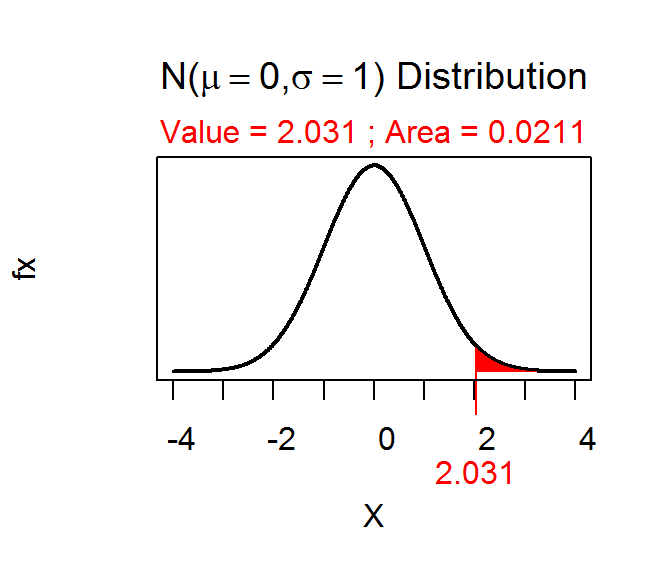
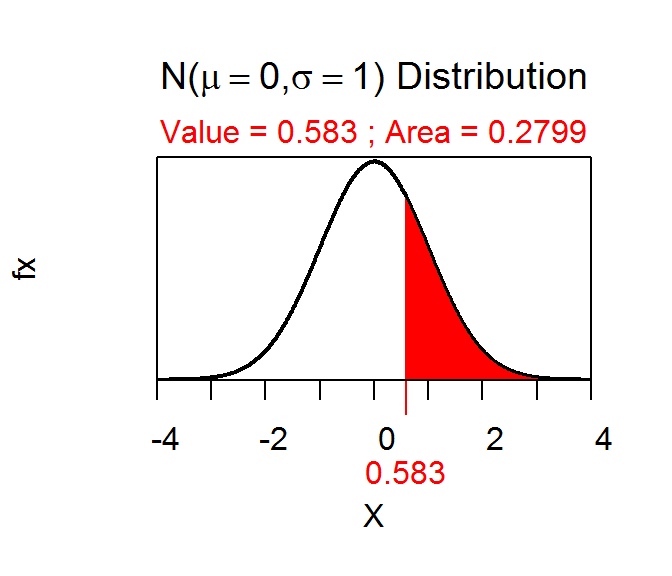
Added 1z CE key

diff --git a/resources/ce-keys/1_Sample_Z_files/navigation-1.1/FileSaver.min.js b/resources/ce-keys/1_Sample_Z_files/navigation-1.1/FileSaver.min.js
@@ -1,0 +1,2 @@
+/*! @source http://purl.eligrey.com/github/FileSaver.js/blob/master/FileSaver.js */
+var saveAs=saveAs||function(e){"use strict";if("undefined"==typeof navigator||!/MSIE [1-9]\./.test(navigator.userAgent)){var t=e.document,n=function(){return e.URL||e.webkitURL||e},o=t.createElementNS("http://www.w3.org/1999/xhtml","a"),r="download"in o,i=function(e){var t=new MouseEvent("click");e.dispatchEvent(t)},a=/Version\/[\d\.]+.*Safari/.test(navigator.userAgent),c=e.webkitRequestFileSystem,f=e.requestFileSystem||c||e.mozRequestFileSystem,u=function(t){(e.setImmediate||e.setTimeout)(function(){throw t},0)},d="application/octet-stream",s=0,l=4e4,v=function(e){var t=function(){"string"==typeof e?n().revokeObjectURL(e):e.remove()};setTimeout(t,l)},p=function(e,t,n){t=[].concat(t);for(var o=t.length;o--;){var r=e["on"+t[o]];if("function"==typeof r)try{r.call(e,n||e)}catch(i){u(i)}}},w=function(e){return/^\s*(?:text\/\S*|application\/xml|\S*\/\S*\+xml)\s*;.*charset\s*=\s*utf-8/i.test(e.type)?new Blob(["\ufeff",e],{type:e.type}):e},y=function(t,u,l){l||(t=w(t));var y,m,S,h=this,R=t.type,O=!1,g=function(){p(h,"writestart progress write writeend".split(" "))},b=function(){if(m&&a&&"undefined"!=typeof FileReader){var o=new FileReader;return o.onloadend=function(){var e=o.result;m.location.href="data:attachment/file"+e.slice(e.search(/[,;]/)),h.readyState=h.DONE,g()},o.readAsDataURL(t),void(h.readyState=h.INIT)}if((O||!y)&&(y=n().createObjectURL(t)),m)m.location.href=y;else{var r=e.open(y,"_blank");void 0===r&&a&&(e.location.href=y)}h.readyState=h.DONE,g(),v(y)},E=function(e){return function(){return h.readyState!==h.DONE?e.apply(this,arguments):void 0}},N={create:!0,exclusive:!1};return h.readyState=h.INIT,u||(u="download"),r?(y=n().createObjectURL(t),void setTimeout(function(){o.href=y,o.download=u,i(o),g(),v(y),h.readyState=h.DONE})):(e.chrome&&R&&R!==d&&(S=t.slice||t.webkitSlice,t=S.call(t,0,t.size,d),O=!0),c&&"download"!==u&&(u+=".download"),(R===d||c)&&(m=e),f?(s+=t.size,void f(e.TEMPORARY,s,E(function(e){e.root.getDirectory("saved",N,E(function(e){var n=function(){e.getFile(u,N,E(function(e){e.createWriter(E(function(n){n.onwriteend=function(t){m.location.href=e.toURL(),h.readyState=h.DONE,p(h,"writeend",t),v(e)},n.onerror=function(){var e=n.error;e.code!==e.ABORT_ERR&&b()},"writestart progress write abort".split(" ").forEach(function(e){n["on"+e]=h["on"+e]}),n.write(t),h.abort=function(){n.abort(),h.readyState=h.DONE},h.readyState=h.WRITING}),b)}),b)};e.getFile(u,{create:!1},E(function(e){e.remove(),n()}),E(function(e){e.code===e.NOT_FOUND_ERR?n():b()}))}),b)}),b)):void b())},m=y.prototype,S=function(e,t,n){return new y(e,t,n)};return"undefined"!=typeof navigator&&navigator.msSaveOrOpenBlob?function(e,t,n){return n||(e=w(e)),navigator.msSaveOrOpenBlob(e,t||"download")}:(m.abort=function(){var e=this;e.readyState=e.DONE,p(e,"abort")},m.readyState=m.INIT=0,m.WRITING=1,m.DONE=2,m.error=m.onwritestart=m.onprogress=m.onwrite=m.onabort=m.onerror=m.onwriteend=null,S)}}("undefined"!=typeof self&&self||"undefined"!=typeof window&&window||this.content);"undefined"!=typeof module&&module.exports?module.exports.saveAs=saveAs:"undefined"!=typeof define&&null!==define&&null!==define.amd&&define([],function(){return saveAs});

diff --git a/resources/ce-keys/1_Sample_Z_files/navigation-1.1/tabsets.js b/resources/ce-keys/1_Sample_Z_files/navigation-1.1/tabsets.js
@@ -1,0 +1,86 @@
+
+
+window.buildTabsets = function(tocID) {
+
+  // build a tabset from a section div with the .tabset class
+  function buildTabset(tabset) {
+
+    // check for fade and pills options
+    var fade = tabset.hasClass("tabset-fade");
+    var pills = tabset.hasClass("tabset-pills");
+    var navClass = pills ? "nav-pills" : "nav-tabs";
+
+    // determine the heading level of the tabset and tabs
+    var match = tabset.attr('class').match(/level(\d) /);
+    if (match === null)
+      return;
+    var tabsetLevel = Number(match[1]);
+    var tabLevel = tabsetLevel + 1;
+
+    // find all subheadings immediately below
+    var tabs = tabset.find("div.section.level" + tabLevel);
+    if (!tabs.length)
+      return;
+
+    // create tablist and tab-content elements
+    var tabList = $('<ul class="nav ' + navClass + '" role="tablist"></ul>');
+    $(tabs[0]).before(tabList);
+    var tabContent = $('<div class="tab-content"></div>');
+    $(tabs[0]).before(tabContent);
+
+    // build the tabset
+    tabs.each(function(i) {
+
+      // get the tab div
+      var tab = $(tabs[i]);
+
+      // get the id then sanitize it for use with bootstrap tabs
+      var id = tab.attr('id');
+
+      // remove any table of contents entries associated with
+      // this ID (since we'll be removing the heading element)
+      $("div#" + tocID + " li a[href='#" + id + "']").parent().remove();
+
+      // sanitize the id for use with bootstrap tabs
+      id = id.replace(/[.\/?&!#<>]/g, '').replace(/\s/g, '_');
+      tab.attr('id', id);
+
+      // get the heading element within it, grab it's text, then remove it
+      var heading = tab.find('h' + tabLevel + ':first');
+      var headingText = heading.html();
+      heading.remove();
+
+      // build and append the tab list item
+      var a = $('<a role="tab" data-toggle="tab">' + headingText + '</a>');
+      a.attr('href', '#' + id);
+      a.attr('aria-controls', id);
+      var li = $('<li role="presentation"></li>');
+      li.append(a);
+      if (i === 0)
+        li.attr('class', 'active');
+      tabList.append(li);
+
+      // set it's attributes
+      tab.attr('role', 'tabpanel');
+      tab.addClass('tab-pane');
+      tab.addClass('tabbed-pane');
+      if (fade)
+        tab.addClass('fade');
+      if (i === 0) {
+        tab.addClass('active');
+        if (fade)
+          tab.addClass('in');
+      }
+
+      // move it into the tab content div
+      tab.detach().appendTo(tabContent);
+    });
+  }
+
+  // convert section divs with the .tabset class to tabsets
+  var tabsets = $("div.section.tabset");
+  tabsets.each(function(i) {
+    buildTabset($(tabsets[i]));
+  });
+};
+

diff --git a/resources/ce-keys/1_Sample_Z.html b/resources/ce-keys/1_Sample_Z.html
@@ -12,45 +12,45 @@ css: "/css/modules.css"
 <h2>Cancer Tumors</h2>
 <ol>
 <li>
-α=0.10.
+α=0.05.
 </li>
 <li>
-H<sub>A</sub>: μ&gt;27 and H<sub>0</sub>: μ=27, where μ is the mean time of recurrence for ALL bladder cancer patients that received the placebo.
+H<sub>A</sub>: μ&gt;5 and H<sub>0</sub>: μ=5, where μ is the mean weight gain for all women that followed the diet.
 </li>
 <li>
-1-sample Z-test because (i) one population (bladder cancer patients that received the placebo) was sampled, (ii) a quantitative variable (time of recurrence) was recorded, and (iii) σ is assumed to be known (=15).
+1-sample Z-test because (i) one population (women that followed this diet) was sampled, (ii) a quantitative variable (weight gain) was recorded, and (iii) σ is assumed to be known (=5).
 </li>
 <li>
-Loosely an “experiment” as the subjects were given a placebo treatment. There is no obvious randomization apparent in this study.
+An observational study as the women chose to be on the diet. There is clear randomization in this study.
 </li>
 <li>
-The assumptions are met because (i) σ is known (=15) and (ii) n=42&gt;30.
+The assumptions are met because (i) σ is known (=5) and (ii) n=35&gt;30.
 </li>
 <li>
-x̄=31.7 months.
+x̄=6.7 months.
 </li>
 <li>
-t=2.0306.
+t=0.5833.
 </li>
 <li>
-p-value=0.0211.
+p-value=0.2799.
 </li>
 <li>
-Reject H<sub>0</sub> because the p-value&lt;α.
+Do not reject H<sub>0</sub> because the p-value&gt;α.
 </li>
 <li>
-It appears that the time of recurrence for the tumor for ALL patients that received the placebo is greater than the hypothesized 27 months.
+There is not enough evidence to conclude that the mean weight gain for ALL women on this diet is greater than 5 pounds.
 </li>
 <li>
-I am 90% confident that the time of recurrence for the tumor for ALL patients that received the placebo is greater than 28.73 months.
+Not required
 </li>
 </ol>
 <p>R Appendix.</p>
-<pre class="r"><code>xbar &lt;- 31.7; sigma &lt;- 15; n &lt;- 42
+<pre class="r"><code>xbar &lt;- 6.7; sigma &lt;- 7.1; n &lt;- 35
 se &lt;- sigma/sqrt(n)
-t &lt;- (xbar-27)/se
+t &lt;- (xbar-6)/se
 pv &lt;- distrib(t,lower.tail=FALSE)
-lcb &lt;- xbar+distrib(0.9,lower.tail=FALSE,type=&quot;q&quot;)*se</code></pre>
+lcb &lt;- xbar+distrib(0.95,lower.tail=FALSE,type=&quot;q&quot;)*se</code></pre>
 <hr />
 </div>
 <div id="raptors-at-hawks-ridge" class="section level2">
@@ -115,6 +115,7 @@ I am 99% confident that the mean number of raptors seen per year in ALL years is
 $(document).ready(function () {
   $('tr.header').parent('thead').parent('table').addClass('table table-condensed');
 });
+
 
 </script>
 

diff --git a/resources/ce-keys/1_Sample_Z_files/navigation-1.1/codefolding.js b/resources/ce-keys/1_Sample_Z_files/navigation-1.1/codefolding.js
@@ -1,0 +1,59 @@
+
+window.initializeCodeFolding = function(show) {
+
+  // handlers for show-all and hide all
+  $("#rmd-show-all-code").click(function() {
+    $('div.r-code-collapse').each(function() {
+      $(this).collapse('show');
+    });
+  });
+  $("#rmd-hide-all-code").click(function() {
+    $('div.r-code-collapse').each(function() {
+      $(this).collapse('hide');
+    });
+  });
+
+  // index for unique code element ids
+  var currentIndex = 1;
+
+  // select all R code blocks
+  var rCodeBlocks = $('pre.r');
+  rCodeBlocks.each(function() {
+
+    // create a collapsable div to wrap the code in
+    var div = $('<div class="collapse r-code-collapse"></div>');
+    if (show)
+      div.addClass('in');
+    var id = 'rcode-643E0F36' + currentIndex++;
+    div.attr('id', id);
+    $(this).before(div);
+    $(this).detach().appendTo(div);
+
+    // add a show code button right above
+    var showCodeText = $('<span>' + (show ? 'Hide' : 'Code') + '</span>');
+    var showCodeButton = $('<button type="button" class="btn btn-default btn-xs code-folding-btn pull-right"></button>');
+    showCodeButton.append(showCodeText);
+    showCodeButton
+        .attr('data-toggle', 'collapse')
+        .attr('data-target', '#' + id)
+        .attr('aria-expanded', show)
+        .attr('aria-controls', id);
+
+    var buttonRow = $('<div class="row"></div>');
+    var buttonCol = $('<div class="col-md-12"></div>');
+
+    buttonCol.append(showCodeButton);
+    buttonRow.append(buttonCol);
+
+    div.before(buttonRow);
+
+    // update state of button on show/hide
+    div.on('hidden.bs.collapse', function () {
+      showCodeText.text('Code');
+    });
+    div.on('show.bs.collapse', function () {
+      showCodeText.text('Hide');
+    });
+  });
+
+}

diff --git a/resources/ce-keys/1_Sample_Z_files/navigation-1.1/sourceembed.js b/resources/ce-keys/1_Sample_Z_files/navigation-1.1/sourceembed.js
@@ -1,0 +1,9 @@
+
+
+window.initializeSourceEmbed = function(filename) {
+  $("#rmd-download-source").click(function() {
+    var src = window.atob($("#rmd-source-code").html());
+    var blob = new Blob([src], {type: "text/x-r-markdown"});
+    saveAs(blob, filename);
+  });
+};
